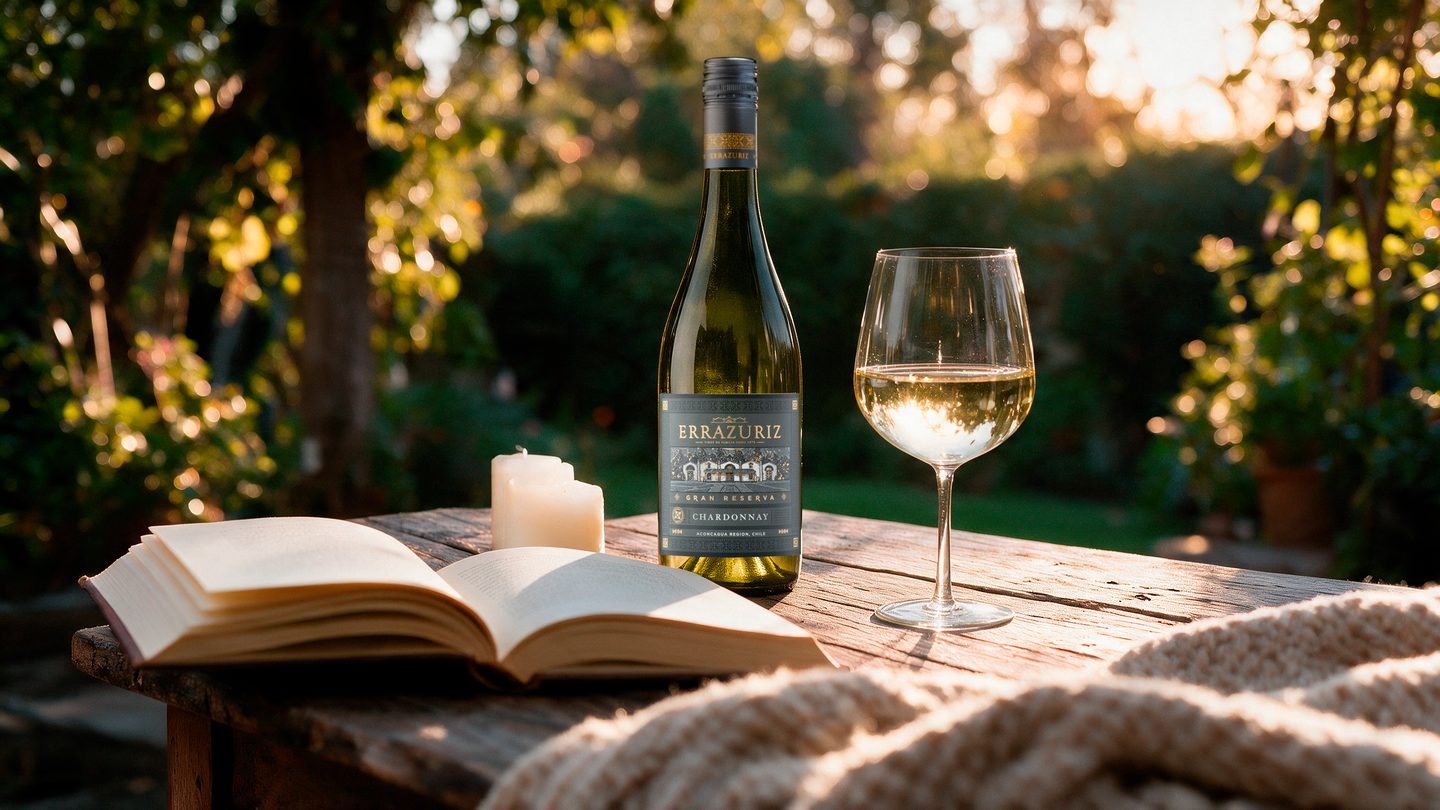
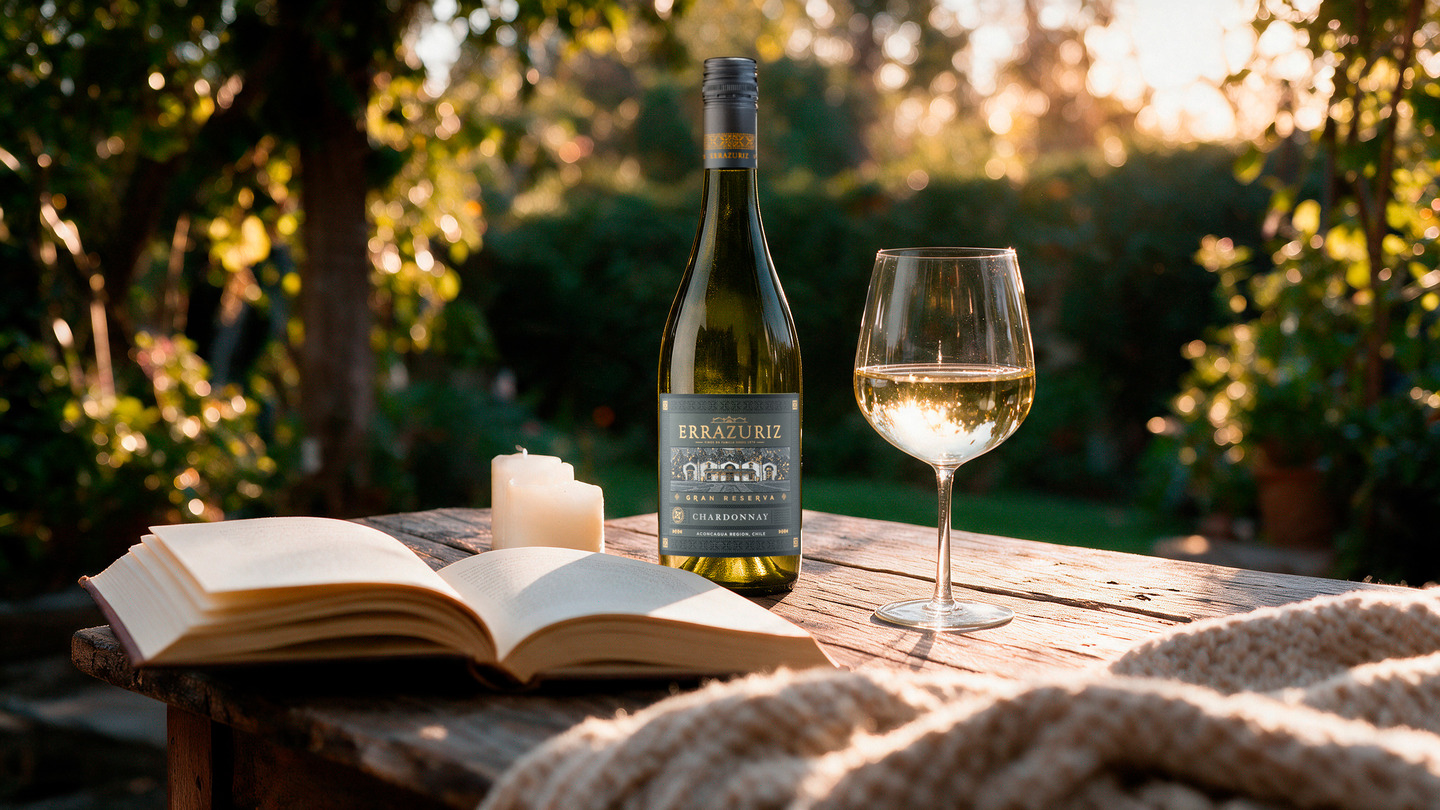
Re-export the hero crops at full quality
Serve the original Chardonnay book JPEG untouched as the 2048w desktop
source and export the remaining crops at q92-95 with 4:4:4 chroma, so the
bottle label keeps its detail. Replace the resized 960w mobile crop with a
native-resolution 1056w one.

diff --git a/index.html b/index.html
@@ -26,7 +26,7 @@
     <section class="hero" aria-labelledby="hero-title">
       <picture>
         <source media="(max-width: 960px)"
-                srcset="assets/hero-book-mobile-640.jpg 640w, assets/hero-book-mobile-960.jpg 960w"
+                srcset="assets/hero-book-mobile-640.jpg 640w, assets/hero-book-mobile-1056.jpg 1056w"
                 sizes="100vw" width="640" height="698">
         <source media="(max-width: 1200px)"
                 srcset="assets/hero-book-tablet-1200.jpg 1200w, assets/hero-book-tablet-1726.jpg 1726w"
